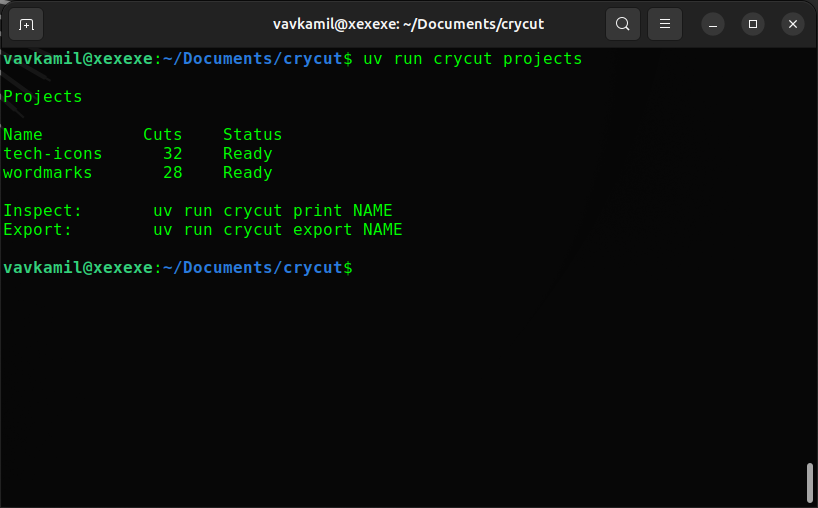
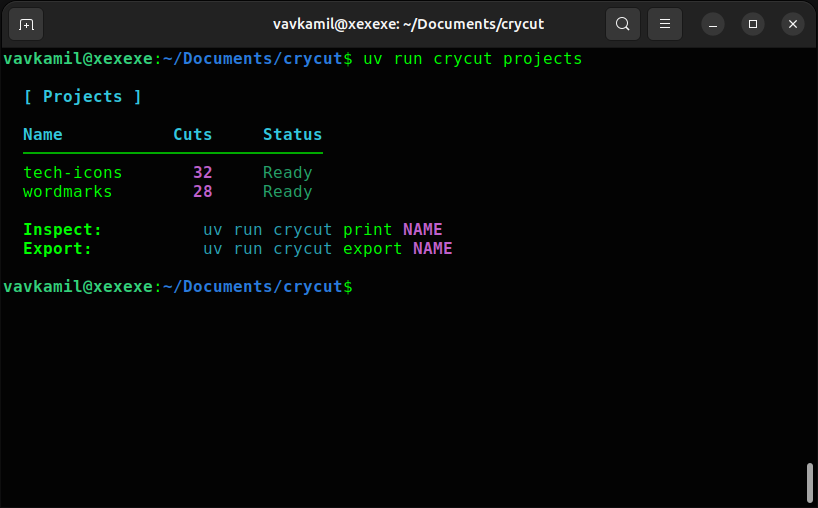
docs: refresh CLI screenshots and README preview

diff --git a/README.md b/README.md
@@ -8,7 +8,7 @@ and cut outlines, and follow the print progress from the terminal. Everything
 runs locally; no Cricut account or Design Space is required.
 
 <p align="center">
-  <img src="docs/screenshots/08_printing_cyan.png" alt="crycut printing a sticker sheet, showing the cyan printing stage and estimated time remaining">
+  <img src="docs/screenshots/06_printing_yellow.png" alt="crycut printing a sticker sheet, showing the yellow printing stage and estimated time remaining">
 </p>
 <p align="center">
   <a href="docs/screenshots/">View all screenshots</a>
